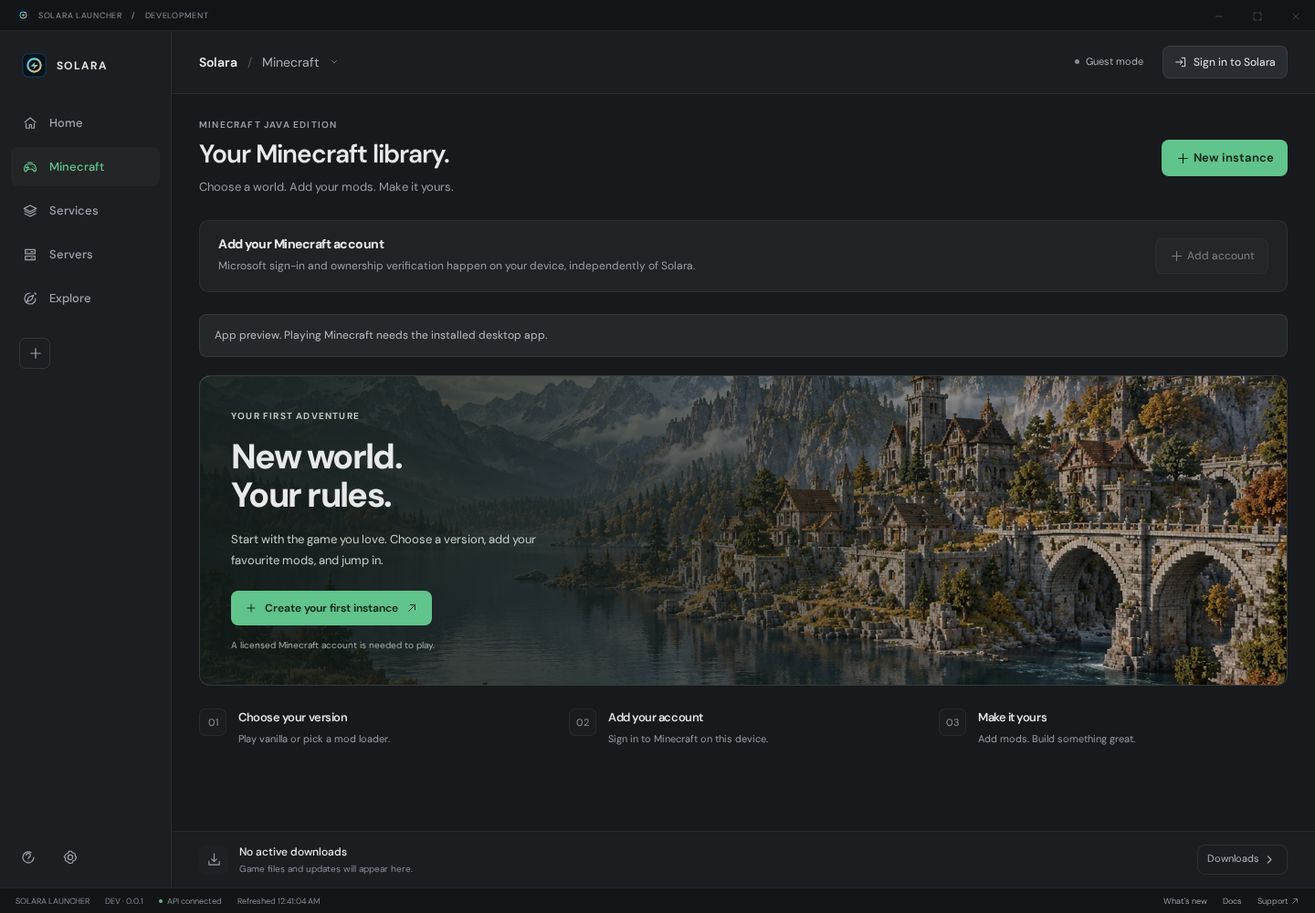
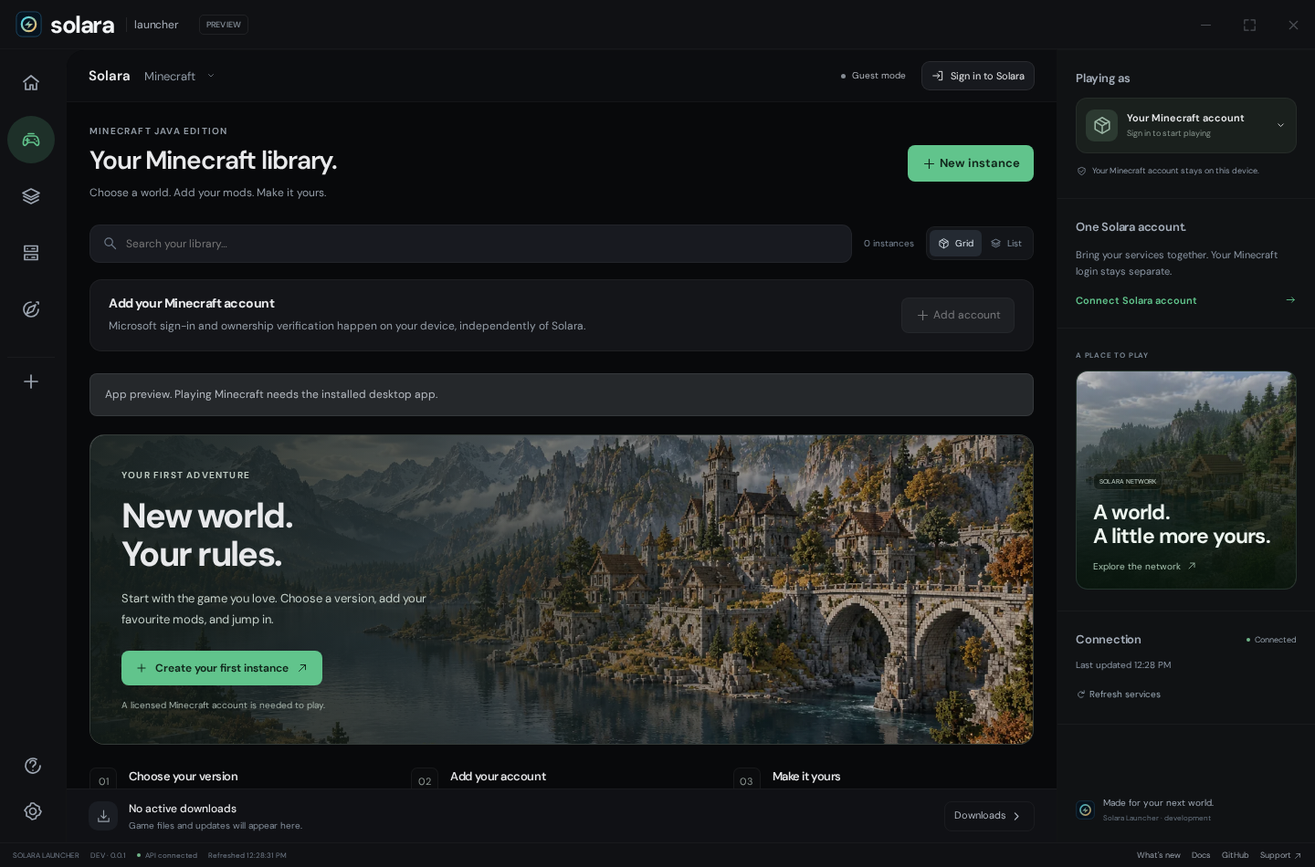
Refine dark launcher layout from visual references and rebuild README showcase

diff --git a/apps/desktop/App.vue b/apps/desktop/App.vue
@@ -19,6 +19,9 @@ const bootVisible=ref(true),interfaceReady=ref(false),engineStarting=ref(isDeskt
 const instances=ref<any[]>([]),localServers=ref<any[]>([]),hosted=ref<any[]>([]),jobs=ref<any[]>([]),account=ref<any>(null),minecraft=ref<any[]>([]),entitlements=ref<any[]>([]);
 const {items:assignments,loading:assignmentsLoading,error:assignmentsError,refresh:loadAssignments}=useAssignments(account);
 const assignmentTarget=ref<Assignment|null>(null),releaseConsent=ref(false);
+const libraryQuery=ref(''),libraryView=ref(localStorage.getItem('solara:library-view')==='list'?'list':'grid');
+const visibleInstances=computed(()=>instances.value.filter(i=>`${i.name} ${i.gameVersion} ${i.loader}`.toLowerCase().includes(libraryQuery.value.trim().toLowerCase())));
+watch(libraryView,value=>localStorage.setItem('solara:library-view',value));
 const versions=ref<any[]>([]),selectedInstance=ref<any>(null),logs=ref(''),serverTab=ref('local'),serviceFilter=ref('all'),query=ref(''),results=ref<any[]>([]),contentType=ref('mod');
 const selectedContent=ref<any>(null),packVersionsLoading=ref(false);let searchController:AbortController|null=null,packController:AbortController|null=null;
 const create=ref({name:'',gameVersion:'',loader:'vanilla',loaderVersion:''});const serverForm=ref({name:'',version:'',javaPath:'java',memory:2048,port:25565,eula:false});
@@ -126,13 +129,14 @@ const date=new Intl.DateTimeFormat('en-IN',{weekday:'long',day:'numeric',month:'
 </script>
 <template>
 <div class="shell" :style="{'--accent':preferences.accent||currentEvent.accent}" :data-reduced-motion="preferences.motion">
-  <div class="titlebar" :inert="modal?true:undefined" data-tauri-drag-region><span class="name" data-tauri-drag-region><img src="/logo.svg" alt="">SOLARA LAUNCHER <span class="muted">/</span> <span>{{buildInfo.publicVersion||'DEVELOPMENT'}}</span></span><div class="window-buttons"><button title="Minimize" aria-label="Minimize" :disabled="!isDesktop" @click="windowAction('minimize')"><Minus/></button><button title="Maximize or restore" aria-label="Maximize or restore" :disabled="!isDesktop" @click="windowAction('maximize')"><Maximize2/></button><button title="Close Solara" aria-label="Close Solara" :disabled="!isDesktop" @click="windowAction('close')"><X/></button></div></div>
-  <aside class="sidebar" :inert="modal||bootVisible?true:undefined"><div class="rail-brand"><img class="brand-logo" src="/logo.svg" alt="Solara"><span>SOLARA</span></div><nav aria-label="Main navigation"><button v-for="t in tabs" :key="t.id" :title="t.label" :aria-label="t.label" :aria-current="section===t.id?'page':undefined" :class="{active:section===t.id}" @click="navigate(t.id)"><component :is="t.icon"/><span class="nav-label">{{t.short}}</span></button><button class="nav-plus" :title="section==='servers'?'Create local server':'Create Minecraft instance'" :aria-label="section==='servers'?'Create local server':'Create Minecraft instance'" @click="plus"><Plus/></button></nav><div class="bottom-nav"><button title="Help and support" aria-label="Help and support" @click="external(links.support)"><HelpCircle/></button><button title="Settings" aria-label="Settings" :class="{active:section==='settings'}" @click="navigate('settings')"><Settings/></button></div></aside>
+  <div class="titlebar" :inert="modal?true:undefined" data-tauri-drag-region><span class="name" data-tauri-drag-region><img src="/logo.svg" alt="">solara<span class="titlebar-edition">launcher</span><span class="titlebar-build">{{buildInfo.publicVersion||'PREVIEW'}}</span></span><div class="window-buttons"><button title="Minimize" aria-label="Minimize" :disabled="!isDesktop" @click="windowAction('minimize')"><Minus/></button><button title="Maximize or restore" aria-label="Maximize or restore" :disabled="!isDesktop" @click="windowAction('maximize')"><Maximize2/></button><button title="Close Solara" aria-label="Close Solara" :disabled="!isDesktop" @click="windowAction('close')"><X/></button></div></div>
+  <aside class="sidebar" :inert="modal||bootVisible?true:undefined"><div class="rail-brand"><img class="brand-logo" src="/logo.svg" alt="Solara"><span>SOLARA</span></div><nav aria-label="Main navigation"><button v-for="t in tabs" :key="t.id" :data-tooltip="t.label" :aria-label="t.label" :aria-current="section===t.id?'page':undefined" :class="{active:section===t.id}" @click="navigate(t.id)"><component :is="t.icon"/><span class="nav-label">{{t.short}}</span></button><button class="nav-plus" :data-tooltip="section==='servers'?'Create local server':'Create Minecraft instance'" :aria-label="section==='servers'?'Create local server':'Create Minecraft instance'" @click="plus"><Plus/></button></nav><div class="bottom-nav"><button data-tooltip="Help and support" aria-label="Help and support" @click="external(links.support)"><HelpCircle/></button><button data-tooltip="Settings" aria-label="Settings" :class="{active:section==='settings'}" @click="navigate('settings')"><Settings/></button></div></aside>
   <div class="main-column" :inert="modal||bootVisible?true:undefined"><header class="app-topbar"><button class="context" title="Open Solara service catalogue" @click="navigate('services')"><span class="mini-logo"><img src="/logo.svg" alt=""></span><span><strong>Solara<span class="identity-divider">/</span><span class="current-section">{{section==='dashboard'?'Home':section==='launcher'?'Minecraft':title}}</span></strong><small>Make it your world.</small></span><ChevronDown/></button><div class="top-right"><span v-if="busy||searching||packVersionsLoading" class="app-busy" aria-label="An operation is in progress"></span><span class="pill"><span class="dot"></span>{{account?'Signed in':'Guest mode'}}</span><button v-if="!account" class="signin" :disabled="busy" @click="signIn"><LogIn/> Sign in to Solara</button><button v-else class="signin" @click="show('account')"><ShieldCheck/>{{account.name||account.username}} <ChevronDown/></button></div></header>
   <main ref="contentPane" class="app-content" :aria-label="title"><div :key="section" class="section-view">
     <div v-if="error" class="banner error" role="alert" style="margin-bottom:20px">{{error}}</div>
     <template v-if="section==='dashboard'">
       <div class="dashboard-intro"><div><div class="eyebrow"><span class="tiny-line"></span> YOUR LAUNCHER</div><h1>{{account?'Hey, '+(account.name||account.username)+'.':'Welcome to Solara.'}}</h1></div><div class="dashboard-date"><span>{{date}}</span><span class="version-tag">{{buildInfo.publicVersion||'Early preview'}} <span class="dot"></span></span></div></div>
+      <section v-if="instances.length" class="jump-back"><div class="section-title"><h2>Jump back in</h2><button class="text-link" @click="navigate('launcher')">Your library <ArrowRight/></button></div><article v-for="i in instances.slice(0,3)" :key="i.id" class="jump-row"><span class="jump-icon"><Box/></span><div class="jump-name"><h3>{{i.name}}</h3><span>{{i.loader}} <i>·</i> {{i.gameVersion}}</span></div><span class="jump-state"><span class="dot"></span>{{i.running?'Running':i.state}}</span><button v-if="!i.running" class="primary" :disabled="busy||!engineReady" @click="launch(i)"><Play/> Play</button><button v-else :disabled="busy" @click="stopGame(i)"><Square/> Stop</button></article></section>
       <div class="dashboard-stage">
         <section class="hero-dashboard"><WorldArt eager/><div class="hero-content"><span class="hero-kicker"><span class="kicker-mark"><Gamepad2/></span> MINECRAFT JAVA EDITION <span class="kicker-line"></span></span><h2>A little less setup.<br><span>A lot more play.</span></h2><p>Play Minecraft. Find new mods.<br>Keep everything in one place.</p><div class="hero-button-row"><button class="primary hero-play" @click="navigate('launcher')"><span class="play-well"><Play/></span>Open Minecraft<ArrowUpRight/></button><button class="hero-secondary" @click="navigate('explore')">Find mods <ArrowRight/></button></div><span class="hero-note"><ShieldCheck/> Your game files stay on your device.</span></div><div class="hero-scene-label"><i></i><span>FOREST VALLEY · SOLARA ARTWORK</span><span class="scene-label-line"></span></div></section>
         <aside class="home-side"><section class="continue-panel"><div class="panel-top"><span class="panel-icon"><Gamepad2/></span><span>YOUR LIBRARY</span><ArrowUpRight/></div><template v-if="instances.length"><h3>Ready for another<br>adventure?</h3><p>{{instances[0].name}}</p><button class="continue-action" @click="navigate('launcher')">Open your library <ArrowRight/></button></template><template v-else><div class="empty-slot-art" aria-hidden="true"><span></span><span></span><span><Plus/></span></div><h3>Your next world<br>starts here.</h3><p>Give each game setup its own mods and saves.</p><button class="continue-action" @click="plus">Create instance <Plus/></button></template></section><button class="network-panel" @click="navigate('servers');serverTab='network'"><span class="network-orb"><Globe/></span><span><small>MEET YOUR NEXT CREW</small><strong>Solara Network <ArrowUpRight/></strong></span><span class="network-detail">Explore</span></button></aside>
@@ -143,10 +147,12 @@ const date=new Intl.DateTimeFormat('en-IN',{weekday:'long',day:'numeric',month:'
     </template>
     <template v-if="section==='launcher'">
       <div class="page-heading"><div><div class="eyebrow" style="margin-bottom:9px">MINECRAFT JAVA EDITION</div><h1>Your Minecraft library.</h1><p>Choose a world. Add your mods. Make it yours.</p></div><button class="primary" @click="plus"><Plus/> New instance</button></div>
+      <div class="library-toolbar"><label class="library-search"><Search/><input v-model="libraryQuery" aria-label="Search your library" placeholder="Search your library…"></label><span class="library-count">{{instances.length}} {{instances.length===1?'instance':'instances'}}</span><div class="library-view-toggle" aria-label="Library view"><button :aria-pressed="libraryView==='grid'" aria-label="Show grid view" @click="libraryView='grid'"><Box/> Grid</button><button :aria-pressed="libraryView==='list'" aria-label="Show list view" @click="libraryView='list'"><Layers3/> List</button></div></div>
       <div class="card account-box" style="margin-bottom:24px"><div><h3>{{minecraft.length?minecraft.find(a=>a.active)?.name||'Minecraft accounts':'Add your Minecraft account'}}</h3><p>Microsoft sign-in and ownership verification happen on your device, independently of Solara.</p></div><button :disabled="busy||!engineReady" @click="mcSignIn"><Plus/> Add account</button></div>
       <div v-if="!isDesktop" class="banner notice" style="margin-bottom:20px">App preview. Playing Minecraft needs the installed desktop app.</div>
       <div v-if="!instances.length"><section class="library-welcome"><div class="library-illustration" aria-hidden="true"><WorldArt scene="alpine-lake" eager/></div><div class="library-welcome-copy"><span class="eyebrow">YOUR FIRST ADVENTURE</span><h2>New world.<br><span>Your rules.</span></h2><p>Start with the game you love. Choose a version, add your favourite mods, and jump in.</p><button class="primary" @click="plus"><Plus/> Create your first instance <ArrowUpRight/></button><span class="library-legal">A licensed Minecraft account is needed to play.</span></div></section><div class="library-next"><div><span>01</span><div><h3>Choose your version</h3><p>Play vanilla or pick a mod loader.</p></div></div><div><span>02</span><div><h3>Add your account</h3><p>Sign in to Minecraft on this device.</p></div></div><div><span>03</span><div><h3>Make it yours</h3><p>Add mods. Build something great.</p></div></div></div></div>
-      <div v-else class="grid"><article v-for="i in instances" :key="i.id" class="instance-card"><div class="instance-art"><WorldArt scene="forest-valley" small/></div><div class="details"><h3>{{i.name}}</h3><p>{{i.gameVersion}} · {{i.loader}} · {{i.running?'Running':i.state}}</p><div class="actions"><button v-if="!i.running" class="primary" :disabled="busy" @click="launch(i)"><Play/> Play</button><button v-else :disabled="busy" @click="stopGame(i)"><Square/> Stop game</button><button title="Edit instance" :disabled="busy" @click="editInstance(i)"><Settings/></button><button title="View game logs" :disabled="busy" @click="instanceLogs(i)"><Terminal/></button><button title="Open instance folder" @click="run(()=>native('open_instance_folder',{id:i.id}))"><FolderOpen/></button></div></div></article></div>
+      <div v-else :class="['grid','instance-collection',{'as-list':libraryView==='list'}]"><article v-for="i in visibleInstances" :key="i.id" class="instance-card"><div class="instance-art"><WorldArt scene="forest-valley" small/></div><div class="details"><h3>{{i.name}}</h3><p>{{i.gameVersion}} · {{i.loader}} · {{i.running?'Running':i.state}}</p><div class="actions"><button v-if="!i.running" class="primary" :disabled="busy" @click="launch(i)"><Play/> Play</button><button v-else :disabled="busy" @click="stopGame(i)"><Square/> Stop game</button><button title="Edit instance" :disabled="busy" @click="editInstance(i)"><Settings/></button><button title="View game logs" :disabled="busy" @click="instanceLogs(i)"><Terminal/></button><button title="Open instance folder" @click="run(()=>native('open_instance_folder',{id:i.id}))"><FolderOpen/></button></div></div></article></div>
+      <div v-if="instances.length&&!visibleInstances.length" class="empty"><Search/><h3>No instances match</h3><p>Try a different name, game version or loader.</p><button @click="libraryQuery=''">Clear search</button></div>
       <div v-if="minecraft.length" class="stack" style="margin-top:25px"><div class="section-title"><h2>Local Minecraft accounts</h2></div><div class="card account-box" v-for="a in minecraft" :key="a.id"><div><h3>{{a.name}}</h3><p>{{a.active?'Selected account':'Saved on this device'}}</p></div><div class="row"><button v-if="!a.active" @click="run(async()=>{await native('select_minecraft_account',{id:a.id});await pollLocal()})">Select</button><button title="Remove this Minecraft account from this device" @click="mcLogout(a.id)"><LogOut/> Remove</button></div></div></div>
     </template>
     <template v-if="section==='services'">
@@ -175,6 +181,13 @@ const date=new Intl.DateTimeFormat('en-IN',{weekday:'long',day:'numeric',month:'
   <div v-if="['checking','downloading','installing','waiting-for-idle','retry-later'].includes(appUpdate.state)" class="banner" role="status">{{appUpdate.state==='downloading'?'Downloading a launcher update…':appUpdate.state==='installing'?'Applying the update. Solara will reopen automatically.':appUpdate.state==='waiting-for-idle'?'Updates will wait until your games, servers and downloads finish.':appUpdate.state==='retry-later'?'Could not check for updates. Solara will try again later.':'Checking for launcher updates…'}}</div>
   <div class="download-dock"><span class="download-dock-icon"><Download/></span><div><strong>{{jobs.filter(j=>['running','queued','downloading'].includes(j.status)).length?jobs.filter(j=>['running','queued','downloading'].includes(j.status)).length+' downloads in progress':'No active downloads'}}</strong><small>{{jobs.length?jobs.length+' local download records':'Game files and updates will appear here.'}}</small></div><button class="downloads-button" @click="show('downloads')">Downloads <ChevronRight :size="10"/></button></div></div>
   <footer class="app-footer" :inert="modal||bootVisible?true:undefined"><div class="footer-group"><span>SOLARA <span class="optional">LAUNCHER</span></span><span>{{buildInfo.publicVersion||'DEV'}} · {{buildInfo.internalVersion}}</span><span class="connection-status" :data-state="statusTone(snapshot.state)"><span class="dot"/> API {{snapshot.state}}</span><span class="optional" v-if="snapshot.at">Refreshed {{new Date(snapshot.at).toLocaleTimeString()}}</span></div><div class="footer-group"><button v-if="latest" @click="show('changelog')">{{latest.publicVersion}} available</button><button @click="show('changelog')">What's new</button><button class="optional" @click="external(links.docs)">Docs</button><button v-if="links.github" @click="external(links.github)">GitHub</button><button @click="external(links.support)">Support <ArrowUpRight :size="8"/></button></div></footer>
+  <aside class="companion-rail" aria-label="Your account and launcher information" :inert="modal||bootVisible?true:undefined">
+    <section class="rail-section"><h2>Playing as</h2><button class="rail-account" :disabled="busy" @click="minecraft.length||!engineReady?navigate('launcher'):mcSignIn()"><span class="account-sigil"><Box/></span><span><strong>{{minecraft.find(a=>a.active)?.name||'Your Minecraft account'}}</strong><small>{{minecraft.length?'Manage local accounts':'Sign in to start playing'}}</small></span><ChevronDown/></button><p class="rail-note"><ShieldCheck/> Your Minecraft account stays on this device.</p></section>
+    <section class="rail-section"><h2>One Solara account.</h2><p>Bring your services together. Your Minecraft login stays separate.</p><button class="rail-connect" :disabled="busy" @click="account?show('account'):signIn()">{{account?'Manage Solara account':'Connect Solara account'}}<ArrowRight/></button></section>
+    <section class="rail-section rail-discover"><span class="eyebrow">A PLACE TO PLAY</span><button class="rail-network" @click="navigate('servers');serverTab='network'"><WorldArt scene="coastal-hamlet" small/><span class="rail-network-copy"><span class="pill">SOLARA NETWORK</span><strong>A world.<br>A little more yours.</strong><span>Explore the network <ArrowUpRight/></span></span></button></section>
+    <section class="rail-section rail-connection"><div class="row"><h2>Connection</h2><span class="connection-status" :data-state="statusTone(snapshot.state==='connected'?'online':snapshot.state)"><span class="dot"></span>{{snapshot.state==='connected'?'Connected':snapshot.state==='checking'?'Checking…':snapshot.state==='cached'?'Cached data':'Unavailable'}}</span></div><p>{{snapshot.at?'Last updated '+new Date(snapshot.at).toLocaleTimeString([], {hour:'2-digit',minute:'2-digit'}):'Local play works independently of Solara services.'}}</p><button class="text-link" @click="refreshPublic"><RefreshCw/> Refresh services</button></section>
+    <div class="rail-bottom"><img src="/logo.svg" alt=""><span>Made for your next world.<small>Solara Launcher · development</small></span></div>
+  </aside>
   <Transition name="boot"><section v-if="bootVisible" class="boot-screen" role="dialog" aria-modal="true" aria-labelledby="boot-title" :aria-describedby="startupError?'boot-error':'boot-description'">
     <div class="boot-landscape"><WorldArt scene="moss-cave" eager/><span class="boot-image-note">A quiet moment before your next world.</span></div>
     <div class="boot-content"><div class="boot-brand"><img src="/logo.svg" alt="">SOLARA</div><span class="eyebrow">MAKE YOURSELF AT HOME</span><h1 id="boot-title" style="margin-top:15px">{{startupError?'A little help needed.':'Getting things ready.'}}</h1><p id="boot-description">{{startupError?'Your local launcher could not start. You can retry or browse the app.':'Your worlds, mods and tools. All in one place.'}}</p>

diff --git a/apps/desktop/reference-layout.css b/apps/desktop/reference-layout.css
@@ -1,0 +1,50 @@
+/* Original Solara layout, guided by the owner's compact desktop references. */
+.shell{grid-template-columns:72px minmax(0,1fr) 282px;grid-template-rows:54px minmax(0,1fr) 27px;background:#101114;--surface:#141519;--panel:#141519;--muted:#949da7;--line:#ffffff0e}
+.titlebar{padding-left:17px;background:#101114;border-color:#ffffff08}
+.titlebar .name{gap:8px;color:#f2f4f6;font-size:26px;letter-spacing:-.055em;font-weight:750}
+.titlebar img{width:29px;height:29px;margin-right:1px}
+.titlebar .titlebar-edition{font-size:12px;font-weight:450;letter-spacing:-.02em;color:#a1a8b2;padding-left:8px;border-left:1px solid #ffffff17;margin-left:6px}
+.titlebar .titlebar-build{font-size:9px;letter-spacing:.03em;font-weight:500;color:#89939d;margin-left:14px;padding:4px 7px;border:1px solid #ffffff12;border-radius:5px}
+.window-buttons button{width:48px}.window-buttons svg{width:17px;height:17px}
+.sidebar{grid-column:1;grid-row:2;padding:11px 8px 12px;background:#101114;border:0;overflow:visible;z-index:12}
+.rail-brand{display:none}.sidebar nav{gap:10px}.sidebar button{position:relative;padding:0;width:52px;height:52px;min-height:52px;display:grid;place-items:center;border-radius:18px;color:#9da6b2}
+.sidebar button>.nav-label{position:absolute;width:1px;height:1px;overflow:hidden;clip-path:inset(50%)}
+.sidebar svg{width:24px;height:24px;stroke-width:1.7}
+.sidebar button.active{color:var(--accent);background:color-mix(in srgb,var(--accent) 18%,transparent);border-radius:50%}
+.sidebar button:hover:not(.active){background:#ffffff08;color:#edf1f4}
+.sidebar .nav-plus{margin:16px 0 0;width:52px;height:52px;min-height:52px;border:0;border-top:1px solid #ffffff0b;border-radius:0;padding-top:9px}
+.sidebar .bottom-nav{gap:6px;flex-direction:column;align-items:center}.sidebar .bottom-nav button{width:48px;height:44px;min-height:44px;padding:0}
+.sidebar [data-tooltip]:after{content:attr(data-tooltip);position:absolute;left:calc(100% + 13px);top:50%;transform:translate(-5px,-50%);padding:11px 14px;background:#181a1f;border:1px solid #ffffff16;border-radius:10px;color:#f0f3f5;font-size:13px;font-weight:600;line-height:1.1;white-space:nowrap;opacity:0;visibility:hidden;pointer-events:none;transition:opacity 130ms,transform 160ms var(--ease-out),visibility 130ms;box-shadow:0 7px 20px #0005;z-index:70}
+.sidebar [data-tooltip]:hover:after,.sidebar [data-tooltip]:focus-visible:after{opacity:1;visibility:visible;transform:translate(0,-50%)}
+.main-column{grid-column:2;grid-row:2;border-radius:20px 0 0 0;background:#08090b;border:1px solid #ffffff0a;border-bottom:0;overflow:hidden}
+.app-topbar{min-height:57px;padding:12px 24px;background:#0c0d10;border-color:#ffffff09}
+.context strong{font-size:15px}.context .identity-divider{display:none}.context strong>span:first-child{color:#eff2f6}.context .current-section{font-size:13px;color:#8e98a3;margin-left:4px}
+.top-right{gap:9px}.top-right .pill{font-size:10px}.top-right .signin{font-size:11px;padding:8px 10px;background:#17191e;border-radius:9px}
+.app-content{padding:25px 25px 30px;scrollbar-color:#292d34 transparent;scrollbar-width:thin}.section-view{max-width:1440px}
+.dashboard-intro{margin-bottom:22px;align-items:flex-end}.dashboard-intro .eyebrow{font-size:9px;color:#7f8b98}.dashboard-intro h1{font-size:29px;font-weight:700;letter-spacing:-.045em;margin-top:9px}.dashboard-date{font-size:10px}.version-tag{display:none}
+.dashboard-stage{grid-template-columns:minmax(0,1fr);gap:0;margin-bottom:16px}.dashboard-stage>.home-side{display:none}
+.hero-dashboard{height:285px;border-radius:16px;border-color:#ffffff10}.hero-content{padding:27px 29px;max-width:450px}.hero-content h2{font-size:38px;font-weight:700}.hero-content p{font-size:12px;line-height:1.6;margin-bottom:17px}.hero-note{margin-top:12px}.hero-scene-label{font-size:7px}
+.hero-play{border-radius:9px}.hero-dashboard:after{background:linear-gradient(90deg,#08100fe8,#08100f9c 45%,#08100f05 90%)}
+.quick-nav{gap:10px;margin-bottom:29px}.quick-nav button{padding:13px 14px;border-radius:12px;background:#141519;border:1px solid #ffffff09}.quick-icon{background:transparent;width:27px;height:30px}.quick-nav strong{font-size:12px}.quick-nav small{font-size:10px;color:#808b99}.quick-nav>button>svg:last-child{color:#65707e}
+.dashboard-section{margin-bottom:26px}.dashboard-section .section-title h2{font-size:18px;letter-spacing:-.025em;font-weight:650}.listing-card{width:241px;min-height:160px;background:#131418;border-color:#ffffff0b;border-radius:13px;padding:17px}.listing-card:hover{border-color:#ffffff24;background:#17191e}
+.listing-card .card-icon{background:#1d2027;color:#c0c8d2;border:1px solid #ffffff0b;border-radius:10px;width:36px;height:36px}.listing-card h3{margin-top:15px;font-size:14px}.listing-card p{color:#8f99a6}.quiet-empty{background:#121317;border-radius:13px;border-color:#ffffff0b;min-height:112px}.quiet-empty h3{font-size:13px}.quiet-empty p{font-size:11px}
+.download-dock{background:#101115;border-top:1px solid #ffffff0b;padding:11px 24px;min-height:59px}.download-dock-icon{background:#1a1d23;border-radius:10px}.download-dock .downloads-button{border:1px solid #ffffff0c;border-radius:8px}.app-footer{background:#101114;border-color:#ffffff0a;font-size:8px;color:#747f8d;padding:0 14px}.footer-group{gap:12px}
+.page-heading h1{font-size:28px;letter-spacing:-.04em}.page-heading p{font-size:12px}.account-box,.instance-card,.card{border-color:#ffffff0c;background:#141519;border-radius:13px}.instance-card h3{font-size:17px}.instance-art{height:139px}.library-welcome{border-radius:16px;min-height:340px}.tab-row button.selected{background:#1b1f26;border-radius:8px}
+.companion-rail{grid-column:3;grid-row:2;min-height:0;overflow:auto;display:flex;flex-direction:column;background:#101214;scrollbar-width:thin;scrollbar-color:#292d34 transparent;border-top:1px solid #ffffff06}
+.rail-section{padding:23px 20px;border-bottom:1px solid #ffffff0a}.rail-section h2{font-size:13px;font-weight:600;color:#a6afbb;letter-spacing:-.015em;margin:0 0 13px}.rail-section p{font-size:11px;line-height:1.65;color:#8b96a4;margin:0 0 16px}
+.rail-account{padding:12px 10px;border:1px solid #ffffff0e;display:flex;align-items:center;gap:10px;width:100%;border-radius:12px;text-align:left;background:#1a201d;min-width:0}.account-sigil{width:35px;height:35px;display:grid;place-items:center;flex-shrink:0;border-radius:9px;background:#2c3a31;color:#9db8a7}.account-sigil svg{width:22px;height:22px}.rail-account>span:nth-child(2){min-width:0}.rail-account strong{font-size:11px;display:block;font-weight:600;white-space:nowrap;overflow:hidden;text-overflow:ellipsis}.rail-account small{font-size:9px;display:block;margin-top:4px;color:#89968e}.rail-account>svg{width:13px;height:13px;margin-left:auto;flex-shrink:0}
+.rail-section .rail-note{display:flex;gap:6px;font-size:9px;margin:13px 1px 0;line-height:1.5}.rail-note svg{width:11px;height:11px;flex-shrink:0;margin-top:1px}
+.rail-connect{background:transparent;border:0;padding:0;color:var(--accent);font-size:11px;font-weight:600;display:flex;justify-content:space-between;align-items:center;width:100%}.rail-connect:hover:not(:disabled){background:transparent}.rail-connect svg{width:13px;height:13px}
+.rail-discover{padding-top:24px}.rail-discover>.eyebrow{display:block;margin-bottom:12px;font-size:8px;letter-spacing:.1em;color:#7d8a97}
+.rail-network{display:block;position:relative;text-align:left;isolation:isolate;overflow:hidden;padding:0;height:240px;width:100%;border-radius:13px;border:1px solid #ffffff13;background:#15251e}.rail-network>.image-art{position:absolute;inset:0;z-index:-2;height:100%}.rail-network:after{position:absolute;inset:0;content:'';background:linear-gradient(180deg,#08140b14,#08140bc9 65%,#08140bf5);z-index:-1}.rail-network .image-art img{height:100%;object-position:54% center}
+.rail-network-copy{height:100%;padding:18px;display:flex;align-items:flex-start;flex-direction:column;justify-content:flex-end;position:relative}.rail-network-copy>.pill{font-size:7px;padding:4px 6px;background:#0a110b80;border-color:#ffffff1c;color:#c6d5cb;margin-bottom:12px}.rail-network-copy strong{font-size:23px;line-height:1.12;letter-spacing:-.04em;color:#edf5ef;font-weight:650}.rail-network-copy>span:last-child{font-size:10px;color:#a5c2af;display:flex;align-items:center;gap:6px;margin-top:13px}.rail-network-copy svg{width:12px;height:12px}
+.rail-connection h2{margin:0}.rail-connection .row{justify-content:space-between;margin-bottom:12px;gap:8px}.rail-connection .connection-status{font-size:9px;color:#929da9}.rail-connection p{font-size:10px}.rail-connection .text-link{font-size:10px;color:#9aa8b4}.rail-connection .text-link svg{width:11px;height:11px}
+.rail-bottom{margin-top:auto;display:flex;align-items:center;gap:9px;padding:22px 20px;color:#a0aab6;font-size:10px}.rail-bottom img{width:21px;height:21px;opacity:.8}.rail-bottom small{display:block;margin-top:5px;color:#66727f;font-size:8px}
+.jump-back{margin-bottom:24px}.jump-back .section-title h2{font-size:19px;letter-spacing:-.03em}.jump-row{display:flex;align-items:center;gap:14px;border:1px solid #ffffff0b;background:#131418;border-radius:15px;padding:15px 17px;margin-bottom:10px}.jump-icon{display:grid;place-items:center;height:45px;width:45px;background:#1d232b;border:1px solid #ffffff12;border-radius:12px;color:#a9b9c9;flex-shrink:0}.jump-icon svg{width:25px;height:25px}.jump-name{min-width:0}.jump-name h3{font-size:15px;font-weight:600;margin:0 0 6px;overflow:hidden;text-overflow:ellipsis;white-space:nowrap}.jump-name>span{font-size:10px;color:#8d99a8}.jump-name i{font-style:normal;color:#4a535f;padding:0 5px}.jump-state{margin-left:auto;display:flex;align-items:center;gap:6px;font-size:10px;color:#8a96a4}.jump-state .dot{background:#778290;width:5px;height:5px}.jump-row>button{margin-left:5px;padding:8px 12px;font-size:11px;border-radius:9px}.jump-row>button svg{width:14px;height:14px}
+@media(min-width:1600px){.shell{grid-template-columns:76px minmax(0,1fr) 316px}.app-content{padding:30px 34px}.hero-dashboard{height:322px}.hero-content{padding:34px}.hero-content h2{font-size:43px}.rail-section{padding:25px}.rail-network{height:280px}}
+@media(max-width:1190px){.shell{grid-template-columns:68px minmax(0,1fr)}.companion-rail{display:none}.sidebar{padding-left:7px;padding-right:7px}.app-content{padding:24px}.dashboard-stage{grid-template-columns:minmax(0,1fr) 220px;gap:14px}.dashboard-stage>.home-side{display:grid}.hero-content{padding:25px;max-width:390px}.hero-content h2{font-size:34px}.continue-panel{background:#141519}.network-panel{background:#141519}}
+@media(max-width:940px){.dashboard-stage{grid-template-columns:minmax(0,1fr)}.dashboard-stage>.home-side{display:none}.app-content{padding:22px}.app-topbar{padding:12px 22px}.hero-content h2{font-size:36px}.dashboard-date{display:none}.titlebar .titlebar-build{display:none}.quick-nav small{font-size:9px}.quick-nav button{padding:11px;gap:8px}.app-footer .footer-group{gap:8px}}
+@media(max-width:820px){.shell{grid-template-columns:64px minmax(0,1fr)}.sidebar{padding-left:5px}.sidebar button{width:50px;height:49px;min-height:49px}.app-topbar .top-right>.pill{display:none}.dashboard-intro h1{font-size:25px}.app-content{padding:20px}.listing-card{width:225px}.quiet-empty{padding:17px;gap:12px}.quiet-empty p{max-width:270px}.download-dock{padding:10px 20px}.app-footer{padding:0 10px}.app-footer .footer-group:first-child{gap:8px}.jump-state{display:none}.jump-row>button{margin-left:auto}}
+
+.library-toolbar{display:flex;align-items:center;gap:13px;margin:0 0 18px}.library-search{display:flex;align-items:center;gap:9px;flex:1;min-width:0;background:#181a20;border:1px solid #ffffff0c;border-radius:11px;padding:0 13px}.library-search>svg{width:17px;height:17px;color:#6f7b8a;flex-shrink:0}.library-search input{border:0;background:transparent;padding:12px 0;font-size:12px;min-width:0;outline:none}.library-search:focus-within{border-color:var(--accent)}.library-count{font-size:10px;color:#788493;white-space:nowrap}.library-view-toggle{display:flex;border:1px solid #ffffff0c;border-radius:9px;padding:3px;background:#131519}.library-view-toggle button{display:flex;align-items:center;gap:6px;font-size:10px;padding:8px 9px;background:none;border:0;border-radius:6px;color:#82909f}.library-view-toggle button[aria-pressed=true]{background:#242a32;color:#dce6ef}.library-view-toggle svg{width:13px;height:13px}.instance-collection.as-list{display:flex;flex-direction:column;gap:11px}.instance-collection.as-list .instance-card{display:flex;align-items:center;gap:16px;padding:14px}.instance-collection.as-list .instance-art{width:82px;height:76px;border-radius:10px;flex-shrink:0}.instance-collection.as-list .details{padding:0;flex:1;min-width:0}.instance-collection.as-list h3{font-size:15px;margin-bottom:6px}.instance-collection.as-list p{margin-bottom:12px;font-size:10px}.instance-collection.as-list button{font-size:10px;padding:7px 9px}@media(max-width:820px){.library-count{display:none}.library-view-toggle button{padding:8px}.library-toolbar{gap:9px}}
+.sidebar [data-tooltip]:before{content:'';position:absolute;left:calc(100% + 9px);top:50%;width:9px;height:9px;background:#181a1f;border-left:1px solid #ffffff16;border-bottom:1px solid #ffffff16;transform:translate(-5px,-50%) rotate(45deg);opacity:0;visibility:hidden;pointer-events:none;z-index:71;transition:opacity 130ms,transform 160ms var(--ease-out),visibility 130ms}.sidebar [data-tooltip]:hover:before,.sidebar [data-tooltip]:focus-visible:before{opacity:1;visibility:visible;transform:translate(0,-50%) rotate(45deg)}

diff --git a/apps/desktop/main.ts b/apps/desktop/main.ts
@@ -1,3 +1,3 @@
-import {createApp} from 'vue';import App from './App.vue';import '../../packages/ui/base.css';import './desktop.css';
+import {createApp} from 'vue';import App from './App.vue';import '../../packages/ui/base.css';import './desktop.css';import './reference-layout.css';
 
 createApp(App).mount('#app');

diff --git a/README.md b/README.md
@@ -1,50 +1,103 @@
-<div align="center">
+<p align="center">
+  <img src="assets/readme/hero.svg" alt="Solara Launcher — one home, every adventure" width="100%" />
+</p>
 
-<img src="public/logo.svg" alt="Solara" width="72" />
+<p align="center">
+  <strong>A calmer home for Minecraft Java and your Solara services.</strong><br />
+  Dark by design. Clear controls. More room for your next world.
+</p>
 
-# Solara Launcher
+<p align="center">
+  <a href="https://github.com/Solara-Inc-Development/solara-launcher/actions/workflows/windows-check.yml"><img src="https://github.com/Solara-Inc-Development/solara-launcher/actions/workflows/windows-check.yml/badge.svg" alt="Windows source checks" /></a>
+  <img src="https://img.shields.io/badge/platform-Windows-19232D?style=flat&amp;labelColor=11151A" alt="Windows first" />
+  <img src="https://img.shields.io/badge/status-in%20development-315E43?style=flat&amp;labelColor=11151A" alt="In development" />
+  <a href="LICENSE"><img src="https://img.shields.io/badge/licence-GPL%203.0-19232D?style=flat&amp;labelColor=11151A" alt="GPL 3.0 licence" /></a>
+</p>
 
-**Your Minecraft worlds. Your Solara services. One home.**
+<p align="center">
+  <a href="#meet-your-launcher">Take a look</a> &nbsp; · &nbsp;
+  <a href="#download">Download status</a> &nbsp; · &nbsp;
+  <a href="#build-it-yourself">Build from source</a> &nbsp; · &nbsp;
+  <a href="https://www.solara-inc.in/contact">Get help</a>
+</p>
 
-A Windows desktop launcher with a clean dark interface.
+---
 
-[Website](https://app.solara-inc.in) · [Support](https://www.solara-inc.in/contact) · [Build checks](https://github.com/Solara-Inc-Development/solara-launcher/actions)
+## Meet your launcher
 
-![Development status](https://img.shields.io/badge/status-in_development-61c48c?style=flat-square)
-[![Windows checks](https://github.com/Solara-Inc-Development/solara-launcher/actions/workflows/windows-check.yml/badge.svg)](https://github.com/Solara-Inc-Development/solara-launcher/actions/workflows/windows-check.yml)
+A familiar desktop layout with a quiet black canvas, a compact sidebar and your account details close at hand. Browse your library, switch to your services and see what is happening without getting lost in menus.
 
-</div>
+<img src="public/screenshots/dashboard.png" alt="Actual Solara development dashboard with compact navigation, original landscape artwork, real Solara listings and account sidebar" width="100%" />
 
-![Solara Launcher dashboard — development preview](public/screenshots/dashboard.png)
+<p align="center"><sub>Actual development interface. Listings come from a local development API using existing Solara sources. This is not a release or a live sign-in demo.</sub></p>
 
-## What is Solara?
+<table>
+<tr>
+<td width="33%" valign="top">
 
-Solara brings Minecraft Java and Solara services into one desktop app. Browse your instances, find content, manage local servers and keep track of downloads from a single place.
+### Your worlds
 
-- **A clear home:** a matte dark interface, smooth motion and reduced-motion support.
-- **Your Minecraft space:** separate instances, game settings and content browsing.
-- **Your services:** Solara account access and supported server tools.
-- **Install once:** the planned Windows download is `solaralauncher.exe`. Automatic signed updates are being tested.
-- **Your data stays yours:** Minecraft account credentials and worlds stay on your device.
+Give each Minecraft setup its own space. Find instances by name, version or loader, and switch between grid and list views.
 
-## Download status
+</td>
+<td width="33%" valign="top">
 
-**No public Windows installer is available yet.** Screenshots show the real development interface, not a finished release.
+### Your services
 
-The local Minecraft engine is being replaced with an independently written implementation. Account setup, complete game flows and automatic updates still need real Windows acceptance testing. Passing source checks alone does not mean a release is ready.
+Explore Solara projects and supported server tools. Public browsing works as a guest; protected actions use your Solara account.
 
-When the first verified installer is published, it will be available through [app.solara-inc.in](https://app.solara-inc.in). A valid Minecraft Java licence is required to play.
+</td>
+<td width="33%" valign="top">
 
-## Development
+### Your pace
 
-The desktop app uses **Vue 3, Tauri 2 and Rust**. The website shares the interface components and public API client.
+Smooth, restrained motion. Clear loading states. Reduced-motion support. A dark interface with no glow effects.
+
+</td>
+</tr>
+</table>
+
+## A place for your next adventure
+
+<img src="public/screenshots/library.png" alt="Actual Solara Minecraft library development screen with search, grid and list controls, instance creation and separate local account controls" width="100%" />
+
+**A clean library.** Keep setups separate, choose your version and make room for mods.<br />
+**A clear view of downloads.** Follow real progress and useful error states.<br />
+**Separate accounts.** Solara connects your services. Minecraft sign-in stays on your device.
+
+> **Still being built:** the local Minecraft engine is being replaced with an independently written implementation. Complete game flows and automatic Windows updates still need acceptance testing. Screenshots show working interface code, not proof that every integration is ready.
+
+## Download
+
+**The public Windows installer is not available yet.**
+
+The download and installed app will be named **`solaralauncher.exe`**. Install once; signed updates are designed to download and apply automatically when games, local servers and downloads are idle. Real update/relaunch testing is still required before release.
+
+| | Status |
+| --- | --- |
+| First platform | Windows 10/11 x64 — final compatibility testing pending |
+| Installer | Not published |
+| Minecraft core | Independent implementation in progress |
+| App updates | Automatic-update code added; signed Windows upgrade testing pending |
+| Website address | [app.solara-inc.in](https://app.solara-inc.in) — deployment pending |
+
+Passing source checks does not mean an installer has been released. A real download will be announced here and on the official website once it has been built and verified. A valid Minecraft Java licence is required to play.
+
+## Build it yourself
+
+**Vue 3** for the interface. **Tauri 2 + Rust** for desktop code. Shared components for the launcher and website.
 
 ```sh
 npm ci
 npm run dev
 ```
 
-Open `http://127.0.0.1:1420/` for the website or `/desktop.html` for the desktop preview. Native actions require the installed desktop runtime; the browser preview does not simulate game accounts or running games.
+| Preview | Address |
+| --- | --- |
+| Website | `http://127.0.0.1:1420/` |
+| Desktop interface | `http://127.0.0.1:1420/desktop.html` |
+
+The browser preview does not simulate Minecraft accounts, installed games or native processes.
 
 ```sh
 npm test
@@ -52,14 +105,40 @@ npm run check
 npm run build
 ```
 
-See [build instructions](docs/BUILD-RELEASE.md) for native prerequisites and release checks, and [API contracts](docs/API.md) for public integration details.
+Native prerequisites, signing and packaging: [build guide](docs/BUILD-RELEASE.md). Public service contracts: [API guide](docs/API.md).
 
-## Privacy and accounts
+<details>
+<summary><strong>More development checks</strong></summary>
 
-The Solara service backend is private and is not included in this repository. Public app data uses `https://api.solara-inc.in`.
+With the UI development server running and Playwright Chromium installed:
 
-Solara sign-in and Minecraft sign-in are separate. Microsoft passwords and Minecraft tokens must never be sent to the Solara backend. Native sign-in uses the official account services and secure local credential storage.
+```sh
+npm run test:ui
+npm run test:motion
+npm run test:workflows
+npm run test:csp
+```
 
-## Licence
+Browser workflow tests use clearly labelled provider/native fixtures. They do not install Minecraft, provision DNS or prove live authentication.
 
-Public source is licensed under [GPL-3.0-only](LICENSE). See [third-party notices](THIRD_PARTY_NOTICES.md) for dependencies and required attribution. Solara is not affiliated with Mojang or Microsoft.
+</details>
+
+## Built around your device
+
+Minecraft worlds, profiles and account credentials stay local. Microsoft passwords and Minecraft tokens must never go to the Solara backend. Solara and Minecraft have separate sign-in and sign-out controls.
+
+The Solara service backend is private and **is not included in this repository**. Public application data uses `https://api.solara-inc.in`. This repository contains the public desktop and website source.
+
+---
+
+<p align="center">
+  <img src="public/logo.svg" alt="Solara" width="28" /><br /><br />
+  <strong>Make it your world.</strong><br />
+  <sub>Made by Solara · Windows first · Minecraft Java</sub><br /><br />
+  <a href="https://www.solara-inc.in">Solara</a> &nbsp; · &nbsp;
+  <a href="https://www.solara-inc.in/contact">Support</a> &nbsp; · &nbsp;
+  <a href="LICENSE">Licence</a> &nbsp; · &nbsp;
+  <a href="THIRD_PARTY_NOTICES.md">Third-party notices</a>
+</p>
+
+<sub>Public source: GPL-3.0-only. Required dependency notices are preserved while engine migration is in progress. Solara is not affiliated with Mojang or Microsoft.</sub>
